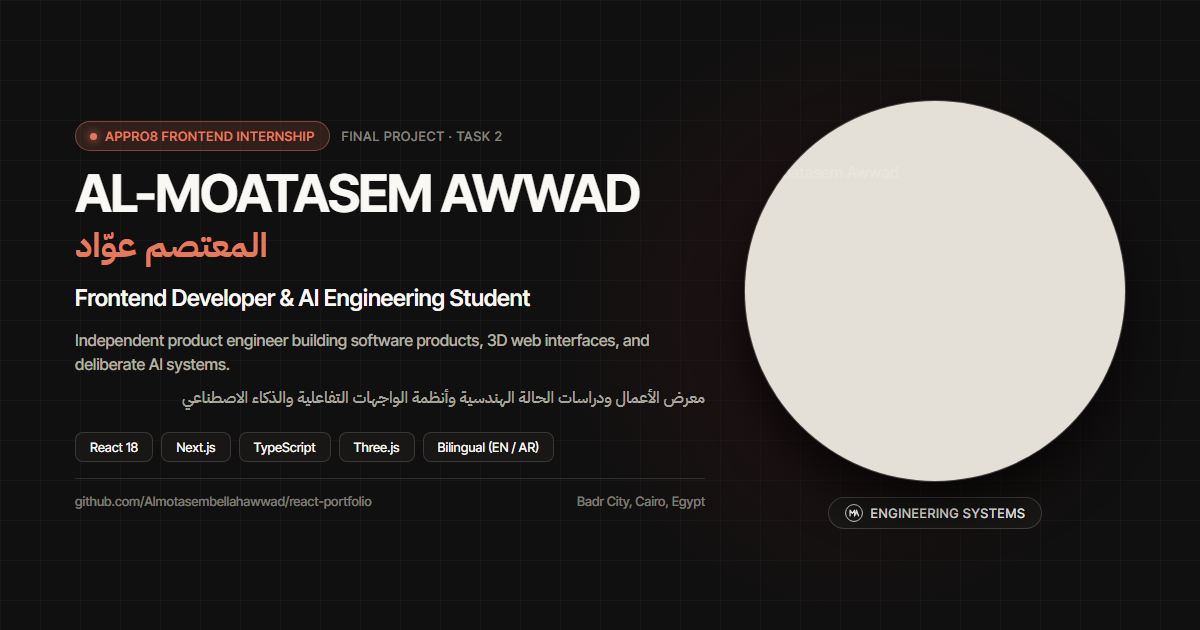
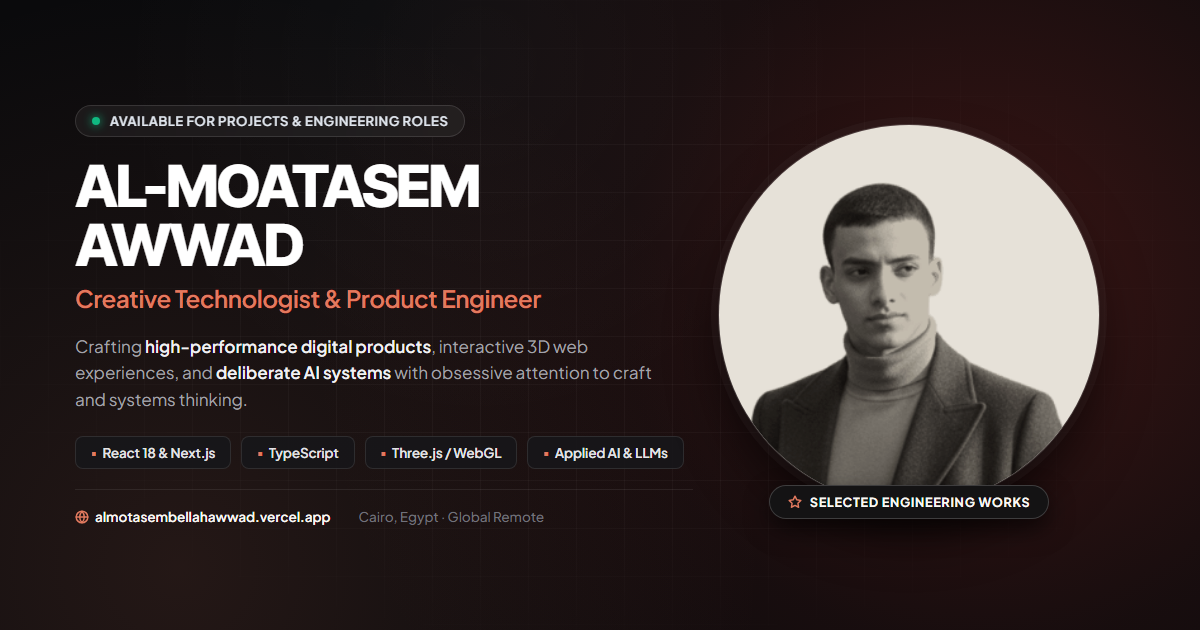
feat(seo): redesign social preview card, switch to executive English metadata, and embed high-res portrait

diff --git a/index.html b/index.html
@@ -5,17 +5,17 @@
 <meta name="viewport" content="width=device-width, initial-scale=1">
 
 <!-- Primary SEO Meta Tags -->
-<title>Al-Moatasem Awwad | المعتصم عوّاد — Front-end Developer & AI Engineer</title>
-<meta name="title" content="Al-Moatasem Awwad | المعتصم عوّاد — Front-end Developer & AI Engineer">
-<meta name="description" content="الموقع الرسمي للمهندس المعتصم بالله عوّاد (Al-Moatasem Awwad). مطور واجهات أمامية وباحث هندسة ذكاء اصطناعي في مدينة بدر، مصر. استكشف المشاريع البرمجية، بنية React التفاعلية، والتجارب الرقمية المدروسة. AppRo8 Frontend Internship Final Project.">
-<meta name="keywords" content="Al-Moatasem Awwad, Almotasem Awwad, Almotasembellah Awwad, المعتصم عواد, المعتصم بالله عواد, Front-end Developer, React Portfolio, Next.js, TypeScript, Three.js, AI Engineering, AppRo8, Web Developer Egypt, Badr City, Egyptian Russian University, مطور واجهات أمامية, مهندس ذكاء اصطناعي">
+<title>Al-Moatasem Awwad | Creative Technologist & Product Engineer</title>
+<meta name="title" content="Al-Moatasem Awwad | Creative Technologist & Product Engineer">
+<meta name="description" content="Crafting high-performance digital products, interactive 3D web experiences, and intelligent AI systems. Explore curated engineering case studies, interactive UI architectures, and technical experiments by Al-Moatasem Awwad.">
+<meta name="keywords" content="Al-Moatasem Awwad, Almotasem Awwad, Almotasembellah Awwad, Creative Technologist, Product Engineer, Front-end Developer, React, Next.js, TypeScript, Three.js, WebGL, Applied AI, AppRo8, Cairo, Egypt">
 <meta name="author" content="Al-Moatasem Awwad">
 <meta name="creator" content="Al-Moatasem Awwad">
 <meta name="publisher" content="Al-Moatasem Awwad">
 <meta name="robots" content="index, follow, max-image-preview:large, max-snippet:-1, max-video-preview:-1">
 <meta name="googlebot" content="index, follow, max-snippet:-1, max-image-preview:large">
 <meta name="bingbot" content="index, follow, max-snippet:-1, max-image-preview:large">
-<link rel="canonical" href="https://react-portfolio-almotasem.vercel.app/">
+<link rel="canonical" href="https://almotasembellahawwad.vercel.app/">
 
 <!-- Favicons & Touch Icons -->
 <link rel="icon" type="image/svg+xml" href="/favicon.svg">
@@ -23,31 +23,31 @@
 <link rel="icon" type="image/png" sizes="192x192" href="/favicon-192.png">
 <link rel="icon" type="image/png" sizes="512x512" href="/favicon-512.png">
 <link rel="apple-touch-icon" sizes="180x180" href="/apple-touch-icon.png">
-<link rel="image_src" href="https://raw.githubusercontent.com/Almotasembellahawwad/react-portfolio/main/public/og-image.png">
+<link rel="image_src" href="https://raw.githubusercontent.com/Almotasembellahawwad/react-portfolio/main/public/og-image.jpg">
 <link rel="manifest" href="/site.webmanifest">
 
 <!-- Open Graph / Facebook / LinkedIn / WhatsApp -->
 <meta property="og:type" content="website">
-<meta property="og:site_name" content="المعتصم عوّاد | Al-Moatasem Awwad">
-<meta property="og:title" content="Al-Moatasem Awwad | المعتصم عوّاد — Front-end Developer & AI Engineer">
-<meta property="og:description" content="الموقع الرسمي للمهندس المعتصم بالله عوّاد. مطور واجهات أمامية وباحث ذكاء اصطناعي. استكشف المشاريع البرمجية وبنية React التفاعلية.">
-<meta property="og:url" content="https://react-portfolio-almotasem.vercel.app/">
-<meta property="og:image" content="https://raw.githubusercontent.com/Almotasembellahawwad/react-portfolio/main/public/og-image.png">
-<meta property="og:image:secure_url" content="https://raw.githubusercontent.com/Almotasembellahawwad/react-portfolio/main/public/og-image.png">
-<meta property="og:image:type" content="image/png">
+<meta property="og:site_name" content="Al-Moatasem Awwad">
+<meta property="og:title" content="Al-Moatasem Awwad | Creative Technologist & Product Engineer">
+<meta property="og:description" content="Crafting high-performance digital products, interactive 3D web experiences, and deliberate AI systems. Explore curated engineering case studies, interactive UI architectures, and technical experiments.">
+<meta property="og:url" content="https://almotasembellahawwad.vercel.app/">
+<meta property="og:image" content="https://raw.githubusercontent.com/Almotasembellahawwad/react-portfolio/main/public/og-image.jpg">
+<meta property="og:image:secure_url" content="https://raw.githubusercontent.com/Almotasembellahawwad/react-portfolio/main/public/og-image.jpg">
+<meta property="og:image:type" content="image/jpeg">
 <meta property="og:image:width" content="1200">
 <meta property="og:image:height" content="630">
-<meta property="og:image:alt" content="Al-Moatasem Awwad | المعتصم عوّاد — Portfolio & Engineering Systems">
+<meta property="og:image:alt" content="Al-Moatasem Awwad — Creative Technologist & Product Engineer">
 <meta property="og:logo" content="https://raw.githubusercontent.com/Almotasembellahawwad/react-portfolio/main/public/logo.png">
-<meta property="og:locale" content="ar_EG">
-<meta property="og:locale:alternate" content="en_US">
+<meta property="og:locale" content="en_US">
+<meta property="og:locale:alternate" content="ar_EG">
 
 <!-- Twitter Cards -->
 <meta name="twitter:card" content="summary_large_image">
-<meta name="twitter:title" content="Al-Moatasem Awwad | المعتصم عوّاد — Front-end Developer & AI Engineer">
-<meta name="twitter:description" content="الموقع الرسمي للمهندس المعتصم بالله عوّاد. مطور واجهات أمامية وباحث ذكاء اصطناعي. مشاريع برمجية، بنية React تفاعلية، وتجارب رقمية متقدمة.">
-<meta name="twitter:image" content="https://raw.githubusercontent.com/Almotasembellahawwad/react-portfolio/main/public/og-image.png">
-<meta name="twitter:image:alt" content="Al-Moatasem Awwad - Portfolio">
+<meta name="twitter:title" content="Al-Moatasem Awwad | Creative Technologist & Product Engineer">
+<meta name="twitter:description" content="Crafting high-performance digital products, interactive 3D web experiences, and deliberate AI systems. Explore curated engineering case studies and technical experiments.">
+<meta name="twitter:image" content="https://raw.githubusercontent.com/Almotasembellahawwad/react-portfolio/main/public/og-image.jpg">
+<meta name="twitter:image:alt" content="Al-Moatasem Awwad — Creative Technologist & Product Engineer">
 
 <!-- PWA & Mobile Web -->
 <meta name="theme-color" content="#121212" media="(prefers-color-scheme: dark)">
@@ -60,17 +60,16 @@
   "@graph": [
     {
       "@type": "Person",
-      "@id": "https://react-portfolio-almotasem.vercel.app/#person",
+      "@id": "https://almotasembellahawwad.vercel.app/#person",
       "name": "Al-Moatasem Awwad",
       "alternateName": [
-        "المعتصم عوّاد",
         "المعتصم بالله عوّاد",
-        "Almotasembellah Awwad",
-        "Al-Moatasem Bellah Awwad"
+        "المعتصم عوّاد",
+        "Almotasembellah Awwad"
       ],
-      "url": "https://react-portfolio-almotasem.vercel.app/",
-      "image": "https://raw.githubusercontent.com/Almotasembellahawwad/react-portfolio/main/public/me.png",
-      "jobTitle": "Front-end Developer & Product Engineer",
+      "url": "https://almotasembellahawwad.vercel.app/",
+      "image": "https://raw.githubusercontent.com/Almotasembellahawwad/react-portfolio/main/public/og-image.jpg",
+      "jobTitle": "Creative Technologist & Product Engineer",
       "worksFor": {
         "@type": "Organization",
         "name": "AppRo8",
@@ -87,7 +86,7 @@
         "addressRegion": "Cairo",
         "addressCountry": "Egypt"
       },
-      "email": "mailto:almotasembellahawwad@gmail.com",
+      "email": "mailto:235179@eru.edu.eg",
       "sameAs": [
         "https://github.com/Almotasembellahawwad",
         "https://www.linkedin.com/in/almotasembellahawwad/",
@@ -100,43 +99,41 @@
         "JavaScript (ES6+)",
         "Three.js",
         "WebGL",
-        "HTML5 / CSS3",
-        "Artificial Intelligence",
+        "Applied AI",
         "Large Language Models (LLMs)",
         "Python",
         "PyTorch",
-        "OpenCV",
         "FastAPI",
-        "UI/UX Systems Design",
-        "Bilingual Web Architecture (RTL/LTR)"
+        "UI Architecture",
+        "Design Systems"
       ],
-      "description": "Independent product engineer and AI engineering student in Badr City, Egypt. Building software products, AI systems, and deliberate digital experiences."
+      "description": "Creative Technologist and Product Engineer crafting high-performance digital products, 3D web interfaces, and deliberate AI systems."
     },
     {
       "@type": "WebSite",
-      "@id": "https://react-portfolio-almotasem.vercel.app/#website",
-      "url": "https://react-portfolio-almotasem.vercel.app/",
+      "@id": "https://almotasembellahawwad.vercel.app/#website",
+      "url": "https://almotasembellahawwad.vercel.app/",
       "name": "Al-Moatasem Awwad Portfolio",
-      "description": "Personal developer portfolio of Al-Moatasem Awwad, showcasing selected engineering projects, interactive 3D case studies, and toolkit.",
+      "description": "Selected engineering works, 3D case studies, and digital architectures by Al-Moatasem Awwad.",
       "publisher": {
-        "@id": "https://react-portfolio-almotasem.vercel.app/#person"
+        "@id": "https://almotasembellahawwad.vercel.app/#person"
       },
       "inLanguage": ["en", "ar"]
     },
     {
       "@type": "ProfilePage",
-      "@id": "https://react-portfolio-almotasem.vercel.app/#webpage",
-      "url": "https://react-portfolio-almotasem.vercel.app/",
-      "name": "Al-Moatasem Awwad - Developer Portfolio",
+      "@id": "https://almotasembellahawwad.vercel.app/#webpage",
+      "url": "https://almotasembellahawwad.vercel.app/",
+      "name": "Al-Moatasem Awwad - Portfolio",
       "isPartOf": {
-        "@id": "https://react-portfolio-almotasem.vercel.app/#website"
+        "@id": "https://almotasembellahawwad.vercel.app/#website"
       },
       "about": {
-        "@id": "https://react-portfolio-almotasem.vercel.app/#person"
+        "@id": "https://almotasembellahawwad.vercel.app/#person"
       },
       "primaryImageOfPage": {
         "@type": "ImageObject",
-        "url": "https://raw.githubusercontent.com/Almotasembellahawwad/react-portfolio/main/public/og-image.png"
+        "url": "https://raw.githubusercontent.com/Almotasembellahawwad/react-portfolio/main/public/og-image.jpg"
       }
     }
   ]
@@ -146,7 +143,7 @@
 <!-- Typography Fonts -->
 <link rel="preconnect" href="https://fonts.googleapis.com">
 <link rel="preconnect" href="https://fonts.gstatic.com" crossorigin>
-<link rel="stylesheet" href="https://fonts.googleapis.com/css2?family=Amiri:wght@400;700&family=Cormorant+Garamond:ital,wght@0,400;0,500;1,400&family=IBM+Plex+Sans+Arabic:wght@400;500;600;700&family=Inter+Tight:wght@400;500;600;700&display=swap">
+<link href="https://fonts.googleapis.com/css2?family=Amiri:wght@400;700&family=Cormorant+Garamond:ital,wght@0,400;0,500;1,400&family=IBM+Plex+Sans+Arabic:wght@400;500;600;700&family=Inter+Tight:wght@400;500;600;700&family=Plus+Jakarta+Sans:wght@400;500;600;700;800&display=swap" rel="stylesheet">
 
 <!-- Theme & Language Initialization -->
 <script>

diff --git a/src/App.jsx b/src/App.jsx
@@ -23,10 +23,10 @@ function Layout(props) {
     if (pathname === '/') {
       pageTitle = lang === 'ar'
         ? 'المعتصم عوّاد | مطوّر واجهات أمامية وهندسة الذكاء الاصطناعي'
-        : 'Al-Moatasem Awwad | Front-end Developer & AI Engineering Student'
+        : 'Al-Moatasem Awwad | Creative Technologist & Product Engineer'
       pageDesc = lang === 'ar'
-        ? 'الموقع الرسمي للمهندس المعتصم بالله عوّاد. مطوّر واجهات أمامية وباحث ذكاء اصطناعي في مدينة بدر، مصر. استكشف المشاريع البرمجية وبنية React التفاعلية.'
-        : 'Portfolio of Al-Moatasem Awwad, independent product engineer and AI engineering student in Badr City, Egypt. Specializing in React, Next.js, TypeScript, and AI systems.'
+        ? 'معرض الأعمال الهندسية للمعتصم بالله عوّاد. تطوير منتجات برمجية، واجهات تفاعلية ثلاثية الأبعاد، وأنظمة ذكاء اصطناعي متقدمة.'
+        : 'Crafting high-performance digital products, interactive 3D web experiences, and intelligent AI systems. Explore curated engineering case studies and technical experiments by Al-Moatasem Awwad.'
     } else if (pathname === '/about') {
       pageTitle = `${t.about} | ${lang === 'ar' ? 'المعتصم عوّاد' : 'Al-Moatasem Awwad'}`
       pageDesc = lang === 'ar' ? t.stmt : 'Background, technical discipline, and engineering philosophy of Al-Moatasem Awwad.'
